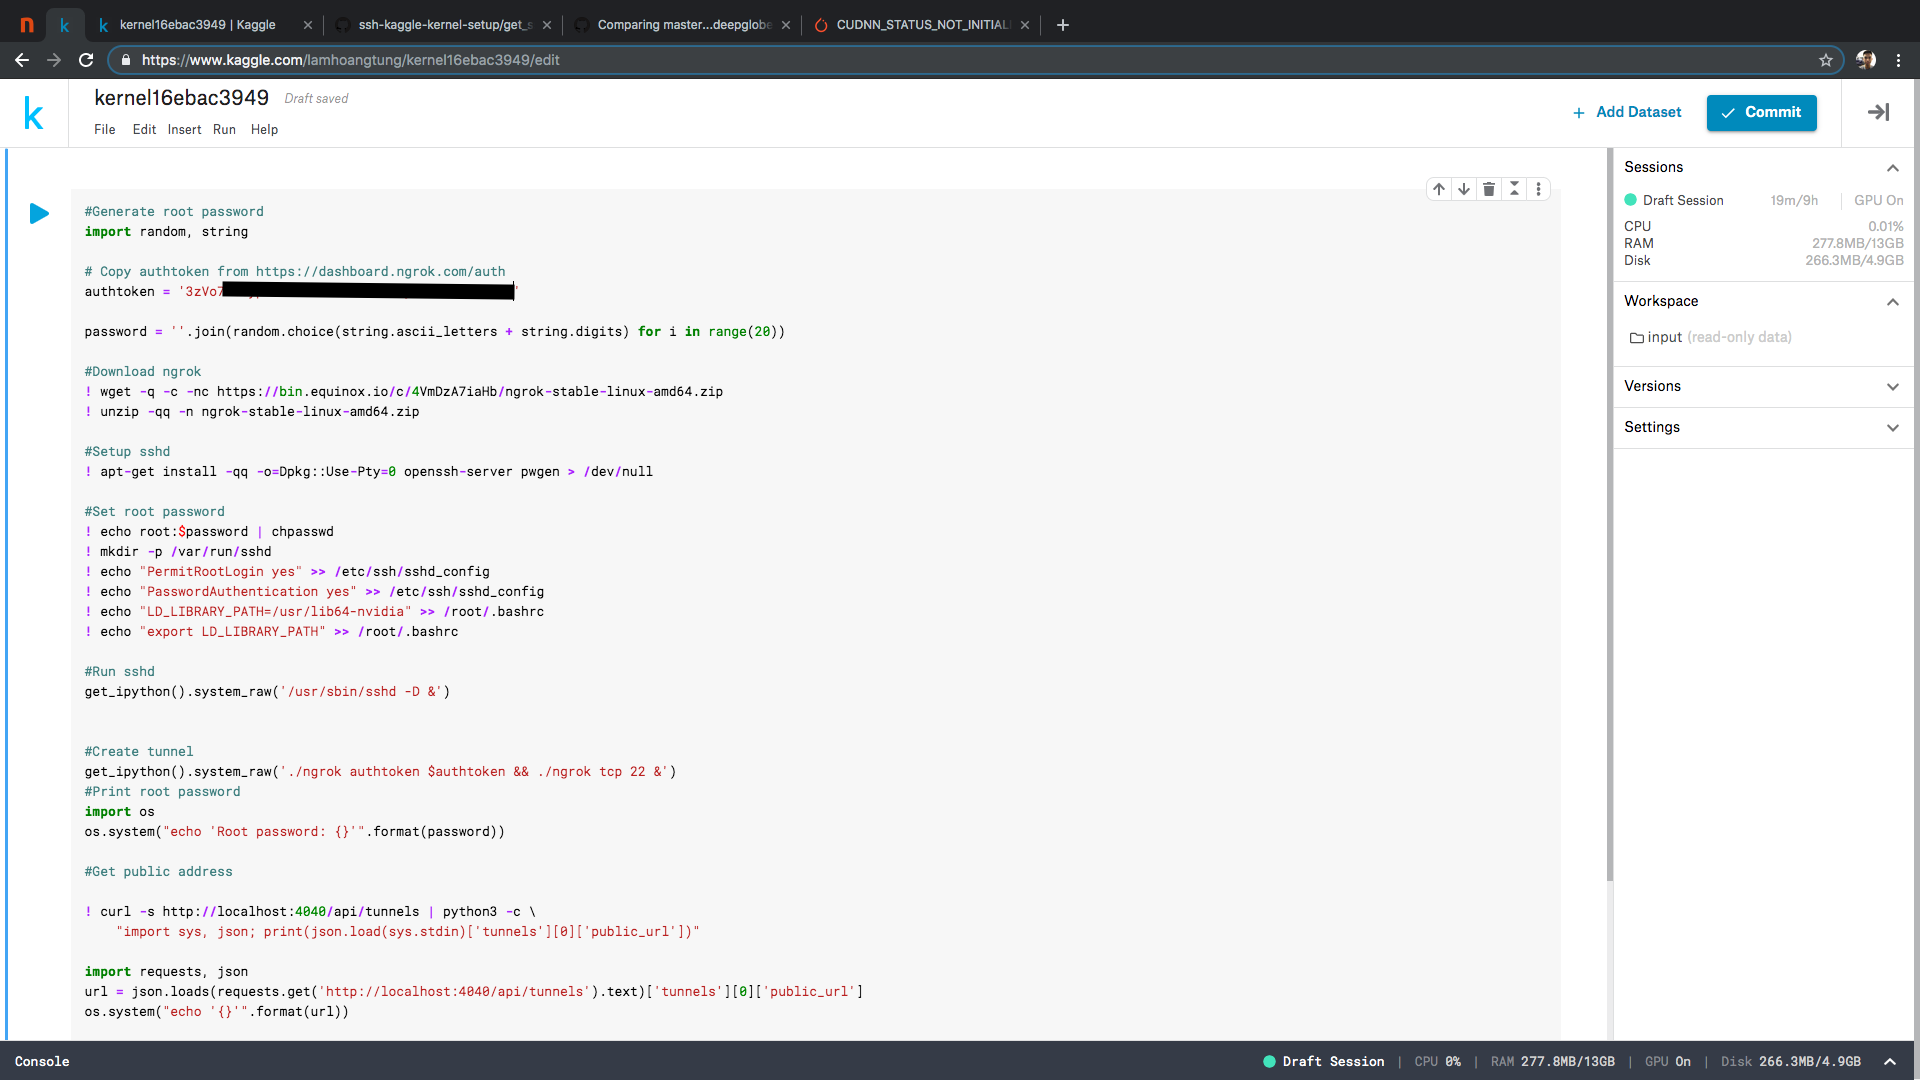
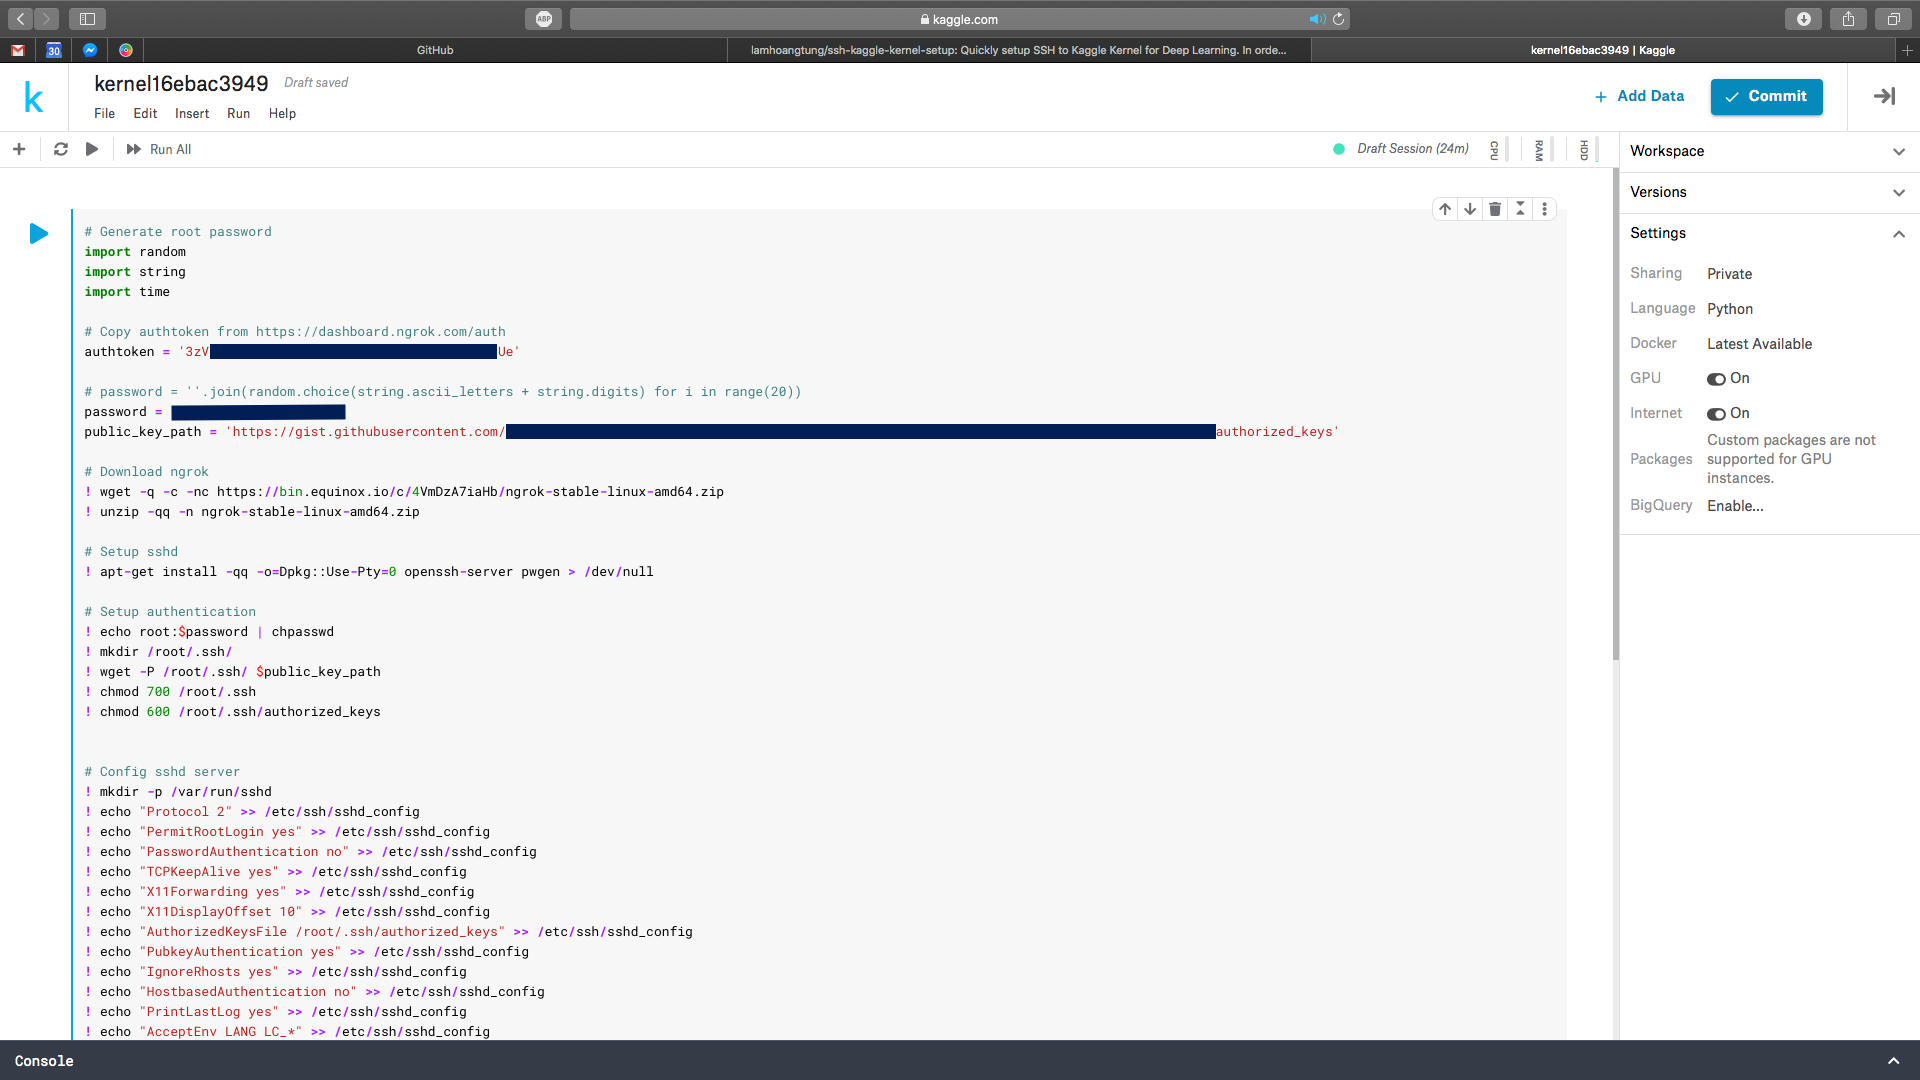
Update README for SSH key login upgrade

diff --git a/README.md b/README.md
@@ -1,8 +1,17 @@
 # SSH Kaggle Kernel Setup :rocket:
-Quick script to setup SSH to Kaggle Kernel for Deep Learning. In order to use that sexy P100 for free :P
+Quick script to setup SSH to Kaggle Kernel for Deep Learning. In order to use that sexy P100 for free (and without many restriction of Jupyter Notebook) :P
 
-## **How setup SSH connection**
-Go to https://dashboard.ngrok.com/auth and get your authentication token after register with Google or Github (You only have to do this once). Then replace your `ngrok` authentication token in line `5` of [get_ssh.py](./get_ssh.py) file
+## Preparation
+1. Go to https://dashboard.ngrok.com/auth and get your authentication token after register with Google or Github (You only have to do this once)
+2. Modify the [get_ssh.py](./get_ssh.py) file:
+    1. Replace your `ngrok` authentication token at line `7` in 
+    2. Set a password for your user at line `10` (just in case you need it, we will use SSH Key authentication from now on)
+    3. Create a public [Github Gist](https://gist.github.com) with file name `authorized_keys` and paste your **public SSH key** (usually located at `~/.ssh/id_rsa`) as the content of the gist. 
+    4. If you don't have an SSH key (RSA Key Pair), please refer to the first step in [this article](https://www.digitalocean.com/community/tutorials/how-to-set-up-ssh-keys-on-ubuntu-1804)
+    4. Replace **the link to raw content of your gist** at line `11`
+
+## **How to setup SSH connection**
+
 
 - **Step 1:** Create a [new Kaggle kernel](https://www.kaggle.com/kernels) 
 
@@ -10,7 +19,7 @@ Go to https://dashboard.ngrok.com/auth and get your authentication token after r
 
     ![setting](./fig/setting.png)
 
-- **Step 3:** Copy the whole content of the [get_ssh.py](./get_ssh.py) (added the authentication token) and paste to the kernel as the first block of code.
+- **Step 3:** Copy the whole content of the modified [get_ssh.py](./get_ssh.py) and paste to the kernel as the first block of code.
 
     ![kernel](./fig/kernel.png)
 
@@ -18,11 +27,12 @@ Go to https://dashboard.ngrok.com/auth and get your authentication token after r
 
     ![commit](./fig/commit.png)
 
-    Save the `Root password` and the host address information `tcp://0.tcp.ngrok.io:17995` to somewhere else since you won't be able to see this information after you close this windown
+    Save the host address information `tcp://0.tcp.ngrok.io:16360` to SSH. If some how you forget the host address and port, go to `your Ngrok Dashboard -> Status` and you will found them again.
 
 ## **How to SSH**    
-- `ssh root@0.tcp.ngrok.io -p 17995` <-- port number dictated in above output
+- `ssh root@0.tcp.ngrok.io -p 16360` <-- port number dictated in above output
 - With root password also dictated in above output
+- You won't have to use the password since we already used SSH key authentication to logging into your server
 - You can turn off the browser, disconnect from the server and it will still running. But keep in mind this server can only live for ***9 hours*** at max.
 
 ## **How to quickly setup the server**
@@ -35,8 +45,8 @@ Go to https://dashboard.ngrok.com/auth and get your authentication token after r
     ```
     And follow the instruction.
 
-- You only need to `Commit` again in the same kernel to get everything up and running again after terminate the server. `Root password` and host address information will be reset each time you commit.
-- You will need multiple `Kaggle` account and multiple `ngrok` account to get multiple server at the same time.  
+- You only need to `Commit` again in the same kernel to get everything up and running again after terminate the server. `Host address` information will be reset each time you commit.
+- You will need multiple `Kaggle` account and multiple `ngrok` account to get multiple server running at the same time.
 
 ## **How to terminate the server**
 - Go to https://www.kaggle.com/kernels and look at the `Your Recent Kernels` section and hit `Stop`.
